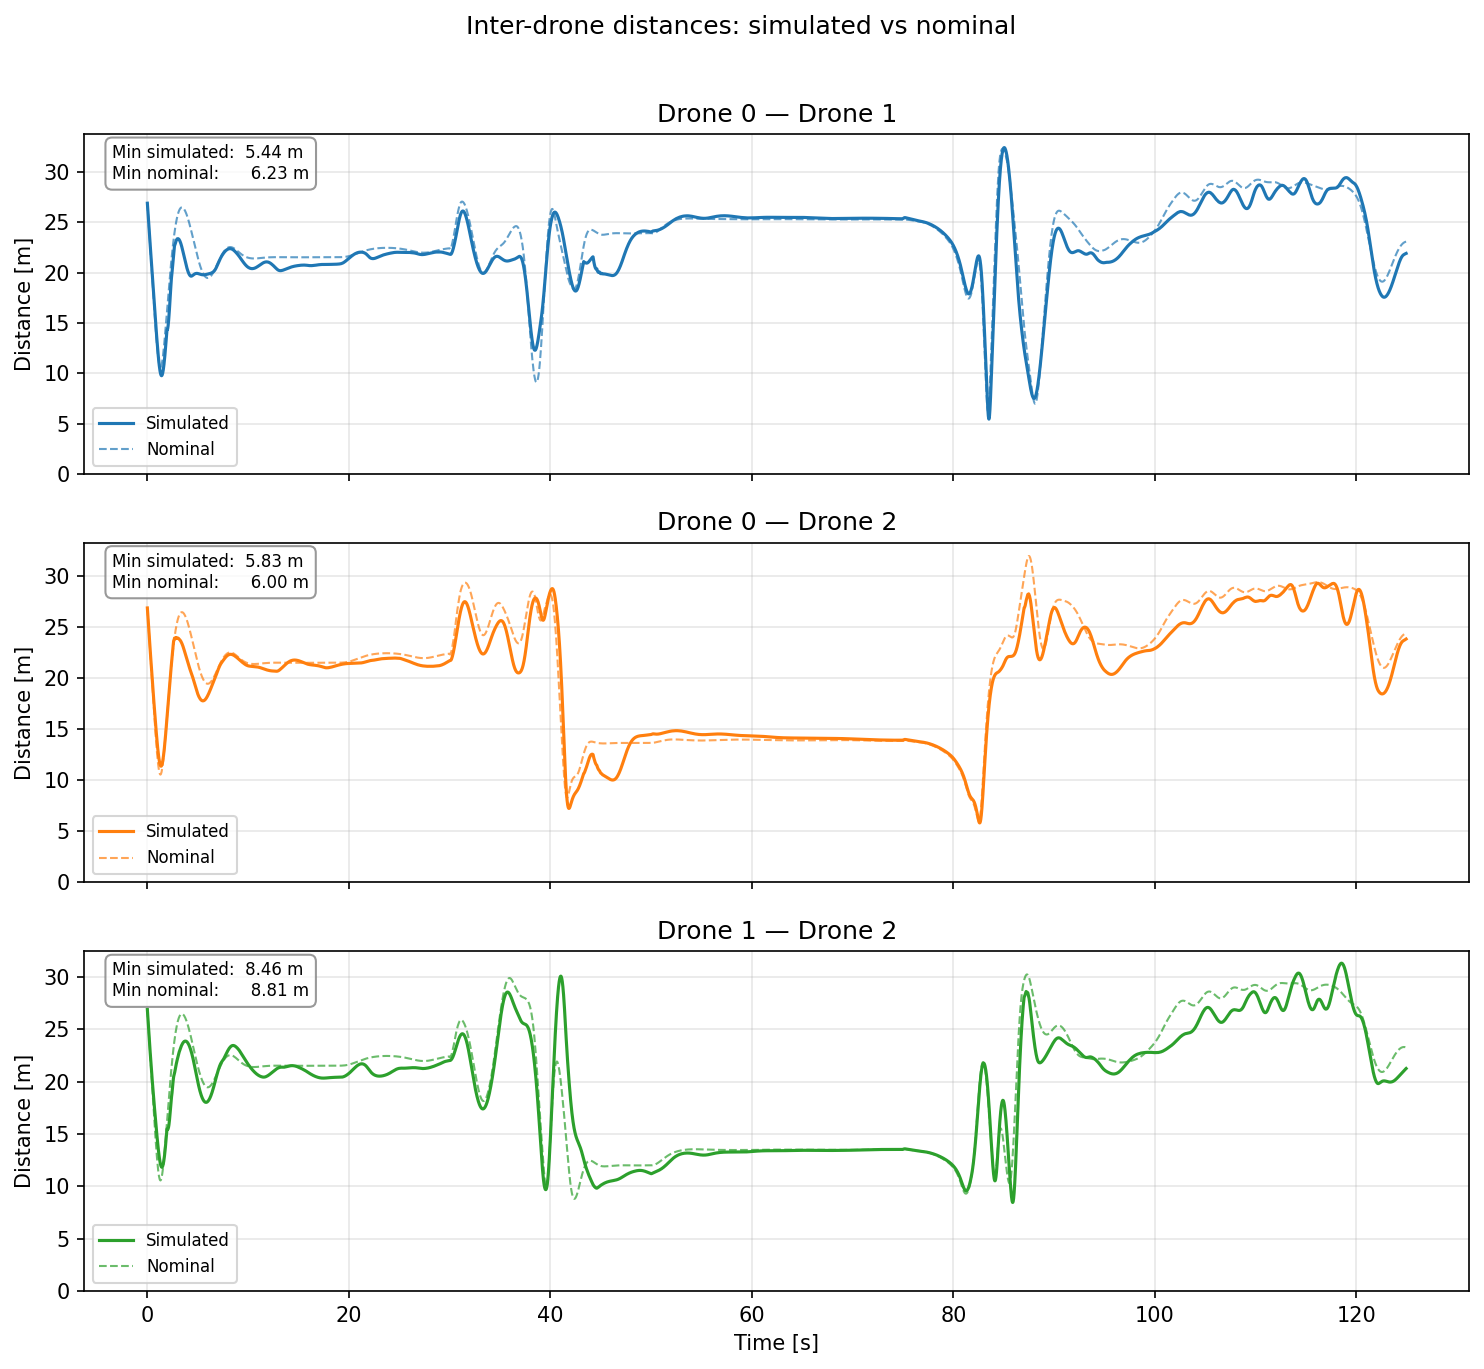
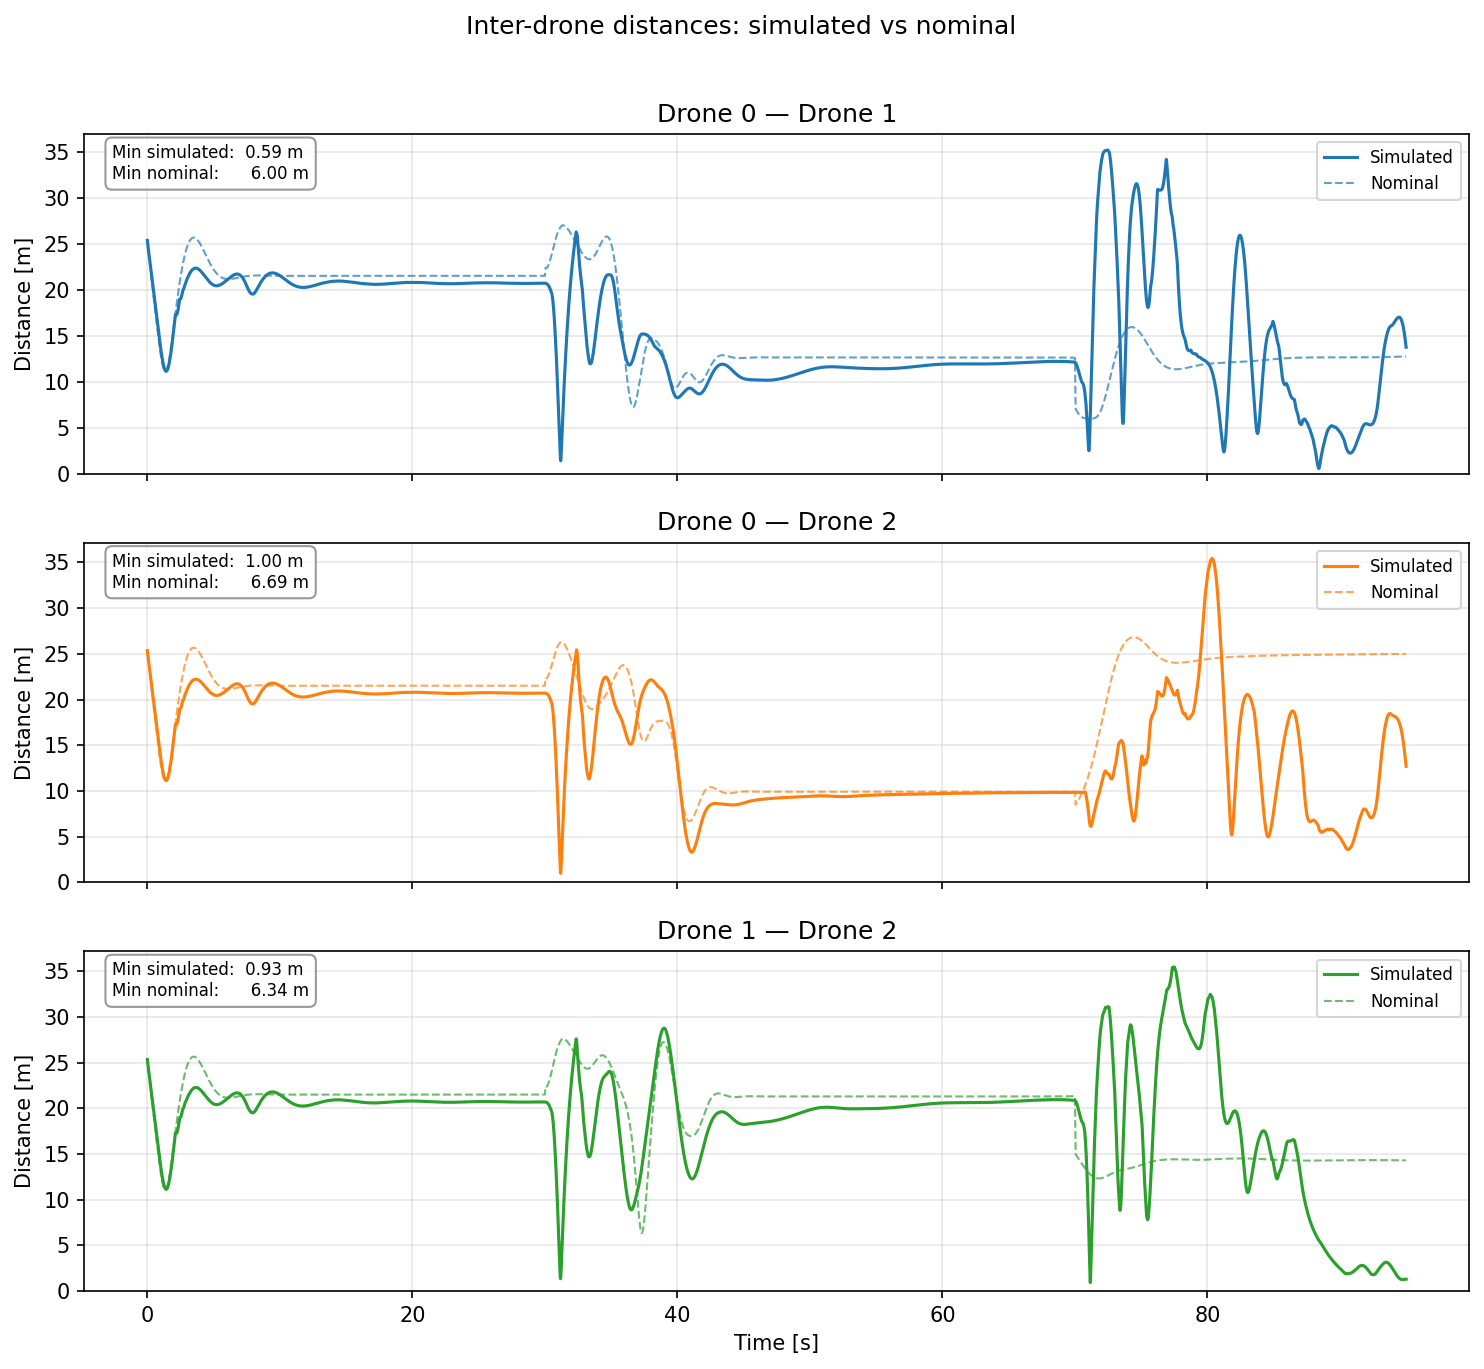
fix lift numerical instability

diff --git a/src/classes/drone_controller.py b/src/classes/drone_controller.py
@@ -11,91 +11,119 @@ from ..utils.default_params import DEFAULT_PARAMS
 class DroneController:
     def __init__(self, params: dict = DEFAULT_PARAMS):
         self.params = params
-        self.integral_error = np.array([0.0, 0.0, 50.0]) # integral PID error term
-
+        self.integral_error = np.array([0.0, 0.0, 50.0])  # integral PID error term
+ 
+        # Persist last valid body frame to avoid degeneracy at low/vertical speed
+        self._body_x = np.array([1.0, 0.0, 0.0])
+        self._body_y = np.array([0.0, 1.0, 0.0])
+        self._body_z = np.array([0.0, 0.0, 1.0])
+ 
     def compute_thrust(self, drone, trajectories, t, trajectories_dt) -> tuple[np.ndarray, tuple[float, float, float]]:
         traj = trajectories[drone.id]
-
+ 
         k = min(int(round(t / trajectories_dt)), len(traj) - 1)
-
+ 
         target_position = traj[k]
         target_velocity = self.estimate_velocity(traj, k, trajectories_dt)
-
+ 
         proportional_error = target_position - drone.position
         derivative_error   = target_velocity - drone.v
-
-        self.integral_error += proportional_error * DEFAULT_PARAMS["simulation_dt"]
-
-        int_norm = np.linalg.norm(self.integral_error)
-        if int_norm > DEFAULT_PARAMS["integral_limit"]:
-            self.integral_error *= DEFAULT_PARAMS["integral_limit"] / int_norm
-
+ 
+        # ── Compute raw thrust before integral update ──────────────────
         thrust_world = (
             DEFAULT_PARAMS["prop_error"]  * proportional_error
             + DEFAULT_PARAMS["deriv_error"] * derivative_error
             + DEFAULT_PARAMS["int_error"]   * self.integral_error
         )
-
+ 
         # ── Body frame from velocity ───────────────────────────────────
         speed = np.linalg.norm(drone.v)
-
+ 
         if speed > 1e-3:
-            # nose points along velocity
             body_x = drone.v / speed
-
-            # body_y perpendicular to body_x in the xy plane
-            # project body_x onto xy, rotate 90 degrees
-            body_y = np.array([-body_x[1], body_x[0], 0.0])
+ 
+            # body_y = right wing: perpendicular to nose and world up
+            # using cross product avoids Gram-Schmidt degeneracy
+            world_up = np.array([0.0, 0.0, 1.0])
+            body_y = np.cross(body_x, world_up)
             y_norm = np.linalg.norm(body_y)
+ 
             if y_norm > 1e-6:
                 body_y /= y_norm
             else:
-                # flying straight up or down — pick arbitrary y
+                # Flying perfectly vertical — pick arbitrary wing direction
                 body_y = np.array([0.0, 1.0, 0.0])
-
-            # body_z points up (world z, orthogonalised against body_x)
-            body_z = np.array([0.0, 0.0, 1.0])
-            body_z -= np.dot(body_z, body_x) * body_x
-            body_z -= np.dot(body_z, body_y) * body_y
-            bz_norm = np.linalg.norm(body_z)
-
-            # ── DEBUG ──────────────────────────────────────────────────
-            if bz_norm < 1e-6:
-                print(f"[DEGENERATE body_z] drone={drone.id} body_x={body_x} body_y={body_y} bz_norm={bz_norm}")
-                return np.zeros(3), (0.0, 0.0, 0.0)
-            body_z /= np.linalg.norm(body_z)
-
-            # ── Project thrust into body frame ─────────────────────────
-            forward_component  = np.dot(thrust_world, body_x)
-            lateral_component  = np.dot(thrust_world, body_y)
-            upward_component   = np.dot(thrust_world, body_z)
-
-            # ── Clamp per axis ─────────────────────────────────────────
-            forward_component  = np.clip(forward_component,
-                                         -DEFAULT_PARAMS["thrust_limit_forward"],
-                                         DEFAULT_PARAMS["thrust_limit_forward"])
-            lateral_component  = np.clip(lateral_component,
-                                         -DEFAULT_PARAMS["thrust_limit_lateral"],
-                                          DEFAULT_PARAMS["thrust_limit_lateral"])
-            upward_component   = np.clip(upward_component,
-                                         -DEFAULT_PARAMS["thrust_limit_upward"],
-                                          DEFAULT_PARAMS["thrust_limit_upward"])
-
-            # ── Reconstruct in world frame ─────────────────────────────
-            thrust = (forward_component * body_x
-                    + lateral_component * body_y
-                    + upward_component  * body_z)
+ 
+            # body_z always well-defined as cross of two orthonormal vectors
+            body_z = np.cross(body_y, body_x)
+ 
+            # Persist valid frame
+            self._body_x = body_x
+            self._body_y = body_y
+            self._body_z = body_z
+ 
         else:
-            # No velocity — fall back to world-frame clamp
-            thrust = np.clip(thrust_world,
-                             -DEFAULT_PARAMS["thrust_limit_forward"],
-                              DEFAULT_PARAMS["thrust_limit_forward"])
-    
+            # Reuse last valid frame — avoids noise corrupting projection
+            body_x = self._body_x
+            body_y = self._body_y
+            body_z = self._body_z
+ 
+        # ── Project thrust into body frame ─────────────────────────────
+        forward_component = np.dot(thrust_world, body_x)
+        lateral_component = np.dot(thrust_world, body_y)
+        upward_component  = np.dot(thrust_world, body_z)
+ 
+        # ── Clamp per axis ─────────────────────────────────────────────
+        forward_limit = DEFAULT_PARAMS["thrust_limit_forward"]
+        lateral_limit = DEFAULT_PARAMS["thrust_limit_lateral"]
+        upward_limit  = DEFAULT_PARAMS["thrust_limit_upward"]
+ 
+        forward_saturated = abs(forward_component) > forward_limit
+        lateral_saturated = abs(lateral_component) > lateral_limit
+        upward_saturated  = abs(upward_component)  > upward_limit
+ 
+        forward_component = np.clip(forward_component, -forward_limit,  forward_limit)
+        lateral_component = np.clip(lateral_component, -lateral_limit,  lateral_limit)
+        upward_component  = np.clip(upward_component,  -upward_limit,   upward_limit)
+ 
+        # ── Reconstruct thrust in world frame ──────────────────────────
+        thrust = (forward_component * body_x
+                + lateral_component * body_y
+                + upward_component  * body_z)
+ 
+        # ── Anti-windup: only integrate non-saturated axes ─────────────
+        # Map body saturation back to world frame and block integration
+        # on any world axis that contributes to a saturated body axis.
+        saturation_body = np.array([
+            float(forward_saturated),
+            float(lateral_saturated),
+            float(upward_saturated),
+        ])
+        saturation_world = (
+            np.abs(body_x) * saturation_body[0]
+            + np.abs(body_y) * saturation_body[1]
+            + np.abs(body_z) * saturation_body[2]
+        )
+        integration_mask = (saturation_world < 0.5).astype(float)
+ 
+        self.integral_error += (
+            proportional_error
+            * DEFAULT_PARAMS["simulation_dt"]
+            * integration_mask
+        )
+ 
+        # Per-axis clamp as safety net
+        self.integral_error = np.clip(
+            self.integral_error,
+            -DEFAULT_PARAMS["integral_limit"],
+             DEFAULT_PARAMS["integral_limit"],
+        )
+ 
         return thrust, (forward_component, lateral_component, upward_component)
-    
+ 
     def estimate_velocity(self, traj, k, dt):
         n = len(traj)
-
+ 
         if k == 0:
             return (traj[1] - traj[0]) / dt
         elif k == n - 1:

diff --git a/src/simulation/physics.py b/src/simulation/physics.py
@@ -16,41 +16,44 @@ def compute_drone_aero_forces(drone: Drone, wind_vector: np.ndarray | None) -> n
 
     Drag
     ----
-        F_drag = -½ · ρ · Cd · A · |v|² · v_hat
+        F_drag = ½ · ρ · Cd · A · |v_rel|² · v_hat
 
     Lift
     ----
-    Dynamic pressure:
-            q = ½ · ρ · A · |v|²
-
-    Angle of attack α:
-            α = atan2(v · body_x, v · body_z)   [in the pitch plane]
-
-    Lift coefficient:
-            Cl = clip(Cl_alpha · (α - α0), -Cl_max, Cl_max)
-
-    Lift direction: perpendicular to velocity, starting straight "up"
-            L_dir = Rodrigues(v_hat, φ) · lift_up
+        q = ½ · ρ · A · |v_rel|²
+        lift_dir = world_up projected onto plane perpendicular to v_hat
+        F_lift = Cl · q · lift_dir
+        (zero when flying vertically — correct fixed-wing behaviour)
     """
-    """Placeholder for drone aerodynamic forces. Currently returns zero."""
-    # lift = 0.5 * rho * v^2 * A * Cl
-    # drag = 0.5 * rho * v^2 * A * Cd
+    if wind_vector is None:
+        wind_vector = np.zeros(3)
+
     relative_air_velocity = wind_vector - drone.v
     speed = np.linalg.norm(relative_air_velocity)
 
-    # ── Drag ──────────────────────────────────────────────────────────
     if speed < 1e-9:
         return np.zeros(3)
 
     v_hat = relative_air_velocity / speed
     q_dyn = 0.5 * DEFAULT_PARAMS["rho_air"] * DEFAULT_PARAMS["drone_area"] * speed**2
 
-    drag = DEFAULT_PARAMS["drone_cd"] * q_dyn * v_hat # no negative sign because its relative velocity to wind, which is already in the opposite direction of drag
+    # ── Drag ──────────────────────────────────────────────────────────
+    # No negative sign: relative velocity already points opposite to drag
+    drag = DEFAULT_PARAMS["drone_cd"] * q_dyn * v_hat
 
-    # ── Lift direction ────────────────────────────────────────────────
-    # Assume lift acts perpendicular to velocity in the "up" direction of simulation z axis. Assume constant Cl
-    lift_up = np.array([0, 0, 1])
-    lift = DEFAULT_PARAMS["drone_cl"] * q_dyn * lift_up  # Placeholder: Cl is constant
+    # ── Lift ──────────────────────────────────────────────────────────
+    # Lift is perpendicular to velocity — vanishes when flying vertically.
+    # Project world-up onto the plane perpendicular to v_hat.
+    world_up = np.array([0.0, 0.0, 1.0])
+    lift_dir = world_up - np.dot(world_up, v_hat) * v_hat
+    lift_dir_norm = np.linalg.norm(lift_dir)
+
+    if lift_dir_norm > 1e-6:
+        lift_dir /= lift_dir_norm
+        lift = DEFAULT_PARAMS["drone_cl"] * q_dyn * lift_dir
+    else:
+        # Flying perfectly vertically — no lift
+        lift = np.zeros(3)
 
     return drag + lift
 

diff --git a/src/utils/default_params.py b/src/utils/default_params.py
@@ -10,13 +10,13 @@ DEFAULT_PARAMS: dict = {
     # Physical constants
     "g": 9.81,          # gravitational acceleration, m/s²
     "rho_air": 1.225,    # air density at sea level, kg/m³
-    "thrust_limit_forward": 250.0, # maximum thrust per drone, N
-    "thrust_limit_upward": 150.0,  # maximum upward thrust per drone, N
-    "thrust_limit_lateral": 150.0, # maximum lateral thrust per drone, N
+    "thrust_limit_forward": 180.0, # maximum thrust per drone, N
+    "thrust_limit_upward": 200.0,  # maximum upward thrust per drone, N
+    "thrust_limit_lateral": 90.0, # maximum lateral thrust per drone, N
 
     # Drone properties
     "m_drone": 6.8,         # drone mass, kg  (each)
-    "drone_cl": 0.8,                # lift coefficient
+    "drone_cl": 0.5,                # lift coefficient
     "drone_cd": 0.1,                # drag coefficient
     "drone_area": 1.4,              # wing area for aero forces
     # Payload properties
@@ -30,16 +30,16 @@ DEFAULT_PARAMS: dict = {
     "d_cable":  100.0,   # damping, N·s/m
 
     # Controller
-    "prop_error" : 100.0,   # proportional gain for radial error
+    "prop_error" : 80.0,   # proportional gain for radial error
     "deriv_error" : 100.0,    # derivative gain for radial error
     "int_error" : 10.0,      # integral gain for radial error
-    "integral_limit": 1000.0, # maximum magnitude of integral error term
+    "integral_limit": 3000.0, # maximum magnitude of integral error term
 
     # Integration
     "simulation_dt":      0.01,    # output time-step (not the ODE step)
 
     # Wind
-    "wind": True,
+    "wind": False,
     "wind_type": "constant",  # "constant", "gust", "oscillating" or "turbulence"
     "wind_constant": np.array([-5.0, 0.0, 0.0]),  # m/s (for constant wind)
     "wing_gust_speed": 10.0,   # m/s (for gusts)

diff --git a/src/core.py b/src/core.py
@@ -91,6 +91,10 @@ def main():
 
         # Time update
         t += DEFAULT_PARAMS["simulation_dt"]
+        # DEBUG
+        # if not np.isnan(drone.position).any():
+
+        #     print(f"drone positions at t={t:.2f}s: {[drone.position for drone in drones]} payload position: {payload.position}")
 
     # Post-simulation processing for visualization
     history["t"] = np.asarray(history["t"])

diff --git a/src/visualizations/plot.py b/src/visualizations/plot.py
@@ -480,7 +480,7 @@ def plot_drone_forces(history: dict, output_path: str = "output/drone_forces.png
         # ax.plot(t, thrust_smooth, linewidth=1.5, color=f"C1", label="Controller thrust")
         ax.plot(t, forward_smooth, linewidth=1.0, color=f"C1", label="Thrust forward", linestyle="-")
         ax.plot(t, lateral_smooth, linewidth=1.0, color=f"C1", label="Thrust lateral", linestyle="--")
-        ax.plot(t, upward_smooth,  linewidth=1.0, color=f"C1", label="Thrust upward",  linestyle=":")
+        # ax.plot(t, upward_smooth,  linewidth=1.0, color=f"C1", label="Thrust upward",  linestyle=":")
 
         ax.set_ylabel("Force [N]")
         ax.set_title(f"Drone {i}")